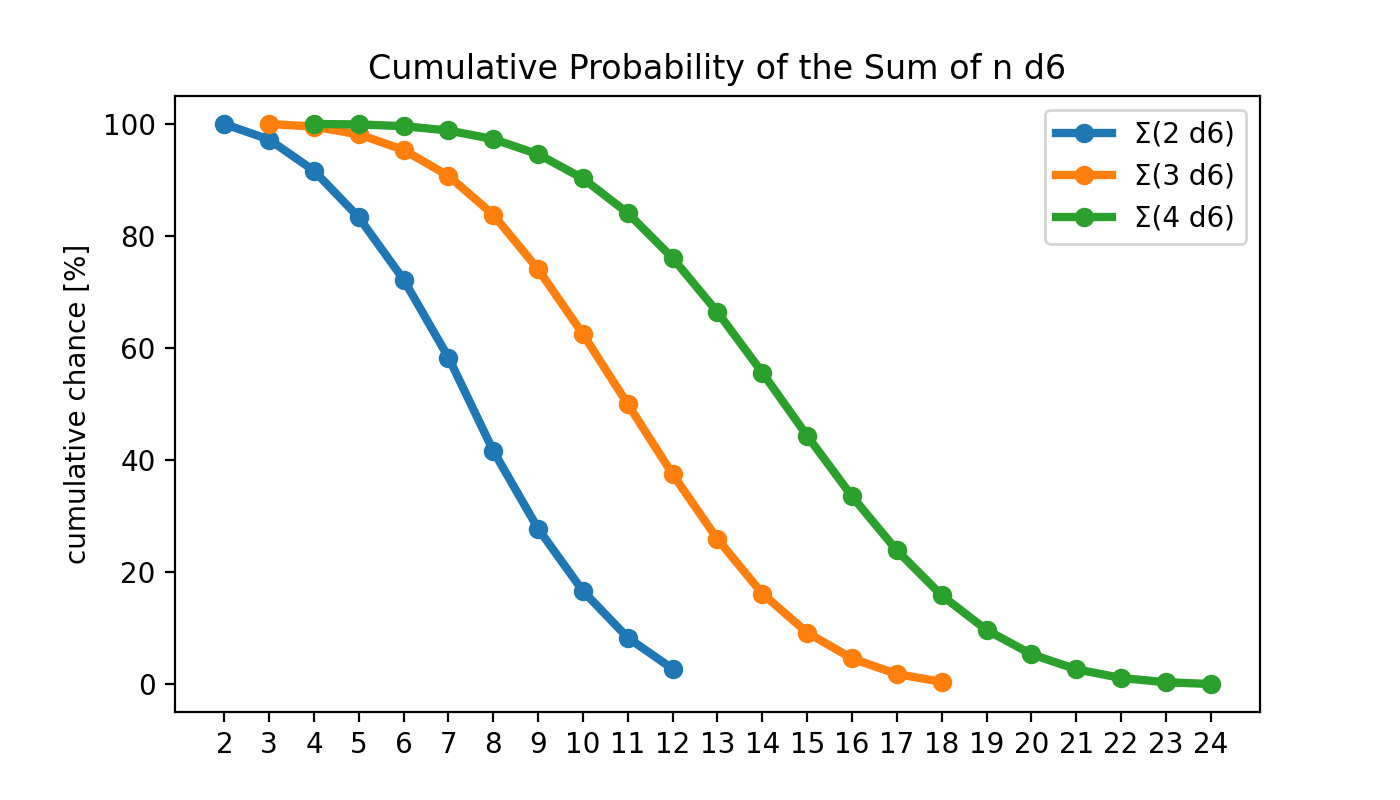
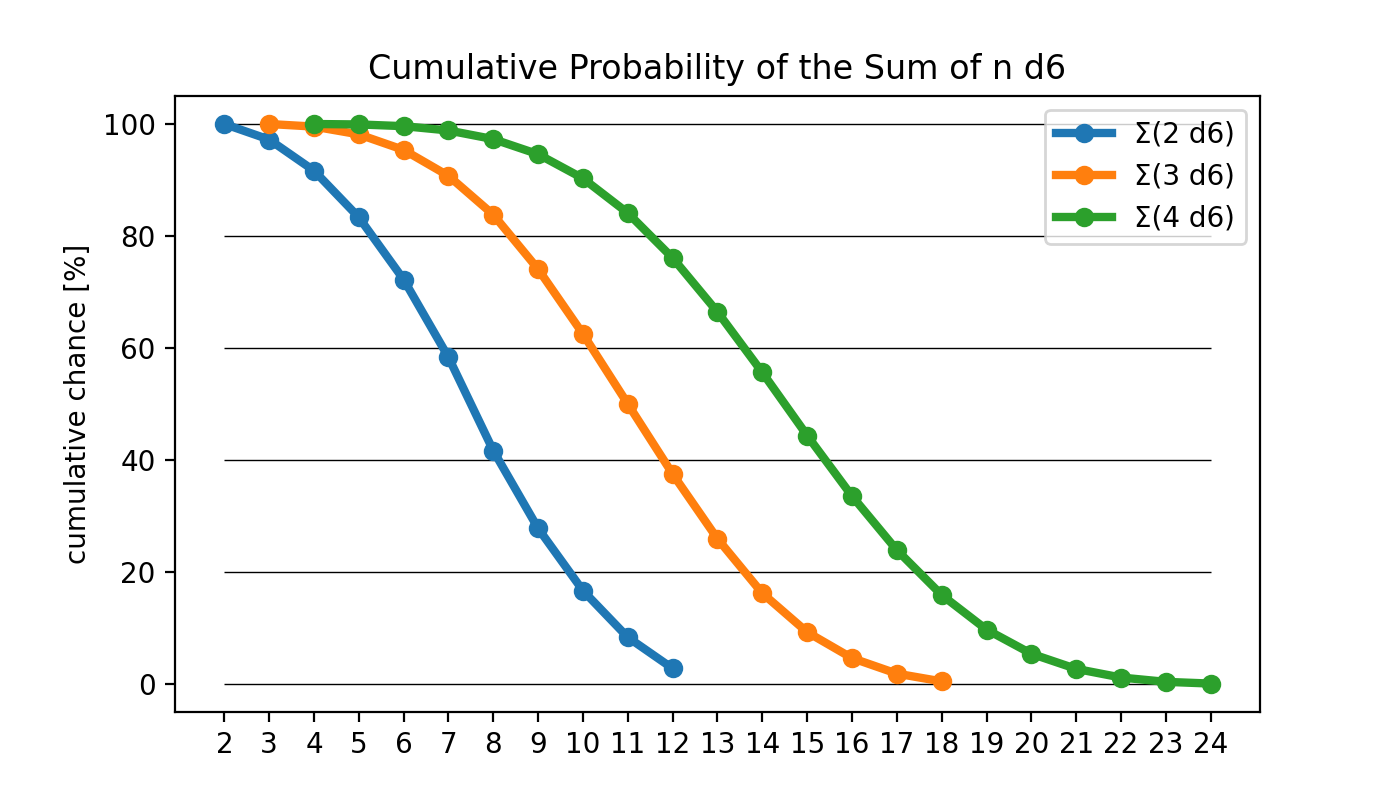
Added further charts

diff --git a/dice.py b/dice.py
@@ -1,7 +1,8 @@
+import statistics
 from collections import Counter
 from functools import reduce
 from itertools import combinations
-from typing import Dict, Set, List
+from typing import Dict, Set, List, Callable, Sequence
 
 import matplotlib.pyplot as plt
 import os
@@ -22,7 +23,9 @@ def chart(title, data: Dict[int, float], xlabel=None):
 def multi_chart(title, data: Dict[str, Dict[int, float]], bar=False, ylabel='chance [%]', xlabel=None):
     plt.figure(figsize=(7, 4))
     all_xvals = [key for series in data.values() for key in series.keys()]
-    plt.xticks(range(min(all_xvals), max(all_xvals) + 1))
+    xmin = min(all_xvals)
+    xmax = max(all_xvals)
+    plt.xticks(range(xmin, xmax + 1))
 
     if bar:
         width = 0.8 / len(data)
@@ -30,6 +33,9 @@ def multi_chart(title, data: Dict[str, Dict[int, float]], bar=False, ylabel='cha
             xvals = [key + (i + 0.5) * width - 0.4 for key in data[label].keys()]
             plt.bar(xvals, data[label].values(), label=label, width=width)
     else:
+        ymax = max(max(curve.values()) for curve in data.values())
+        for y in range(0, int(ymax) + 20, 20):
+            plt.hlines(y=y, xmin=xmin, xmax=xmax, linewidth=0.5, colors='black')
         for label in data:
             xvals = sorted(data[label])
             yvals = [data[label][key] for key in xvals]
@@ -49,7 +55,7 @@ def combine(n):
     return set(combinations(dice, n))
 
 
-def percentage(f, combos: Set[int]) -> Dict[int, float]:
+def probability_distribution(f: Callable[[Sequence[int]], int], combos: Set[Set[int]]) -> Dict[int, float]:
     val_cnt = Counter(map(f, combos))
     sigma = sum(val_cnt.values())
     return {key: val / sigma * 100.0 for key, val in val_cnt.items()}
@@ -93,6 +99,13 @@ def hits(threshold: int):
     return lambda l: sum(1 if x >= threshold else 0 for x in l)
 
 
+def hit(threshold: int, combo: set[int]) -> int:
+    for die in combo:
+        if die >= threshold:
+            return 1
+    return 0
+
+
 def explosive_die(threshold: int, computational_depth: int):
     sequences = combine(computational_depth)
 
@@ -105,42 +118,55 @@ def explosive_die(threshold: int, computational_depth: int):
                 break
         return i
 
-    return percentage(explode, sequences)
+    return probability_distribution(explode, sequences)
 
 
-chart('Probability of 1 d6', percentage(sum, combine(1)), xlabel='Σ(1 d6)')
-chart('Probability of the Sum of 2 d6', percentage(sum, combine(2)), xlabel='Σ(2 d6)')
-chart('Probability of the Sum of 3 d6', percentage(sum, combine(3)), xlabel='Σ(3 d6)')
-chart('Probability of the Sum of 4 d6', percentage(sum, combine(4)), xlabel='Σ(4 d6)')
+combos = {n: combine(n) for n in range(1, 7)}
+
+multi_chart('Probability to Score at Least 1 Hit', {
+    f'{threshold}+': {n: sum(hit(threshold, combo) for combo in combos[n]) / len(combos[n]) * 100.0 for n in
+                      range(1, 7)} for
+    threshold in range(2, 7)}, xlabel='number of dice rolled')
+
+chart('Probability of 1 d6', probability_distribution(sum, combine(1)), xlabel='Σ(1 d6)')
+chart('Probability of the Sum of 2 d6', probability_distribution(sum, combine(2)), xlabel='Σ(2 d6)')
+chart('Probability of the Sum of 3 d6', probability_distribution(sum, combine(3)), xlabel='Σ(3 d6)')
+chart('Probability of the Sum of 4 d6', probability_distribution(sum, combine(4)), xlabel='Σ(4 d6)')
 
 multi_chart('Cumulative Probability of the Sum of n d6',
-            {f'Σ({i} d6)': cumulative(percentage(sum, combine(i))) for i in range(2, 5)},
+            {f'Σ({i} d6)': cumulative(probability_distribution(sum, combine(i))) for i in range(2, 5)},
             ylabel='cumulative chance [%]')
 
-multi_chart('Probability of the Maximum of n d6', {f'max({i} d6)': percentage(max, combine(i)) for i in range(2, 5)},
+multi_chart('Probability of the Maximum of n d6',
+            {f'max({i} d6)': probability_distribution(max, combine(i)) for i in range(2, 5)},
             bar=True)
 
 multi_chart('Probability of the Minimum of 2 d6', {
-    'min(2 d6)': percentage(min, combine(2)),
-    'min(2 d6 w/o  doubles)': percentage(min, {x for x in combine(2) if list(x)[0] != list(x)[1]})
+    'min(2 d6)': probability_distribution(min, combine(2)),
+    'min(2 d6 w/o  doubles)': probability_distribution(min, {x for x in combine(2) if list(x)[0] != list(x)[1]})
 }, bar=True)
 
-chart('Probability of the Difference between 2 d6', percentage(delta, combine(2)), xlabel='Δ(2 d6)')
-chart('Π(2 d6)', percentage(lambda l: l[0] * l[1], combine(2)))
+chart('Probability of the Difference between 2 d6', probability_distribution(delta, combine(2)), xlabel='Δ(2 d6)')
+chart('Π(2 d6)', probability_distribution(lambda l: l[0] * l[1], combine(2)))
+
+multi_chart('Probability of the Median of n d6',
+            {f'{n} d6': probability_distribution(statistics.median, combine(n)) for n in (3, 5, 7)}, xlabel='median',
+            bar=True)
 
 for i in range(1, 7):
     multi_chart(f'Probability of Hits with {i} d6',
                 {f'{threshold}+, μ = {round(expected_value(percentage), 1)}': percentage for threshold, percentage in
-                 [(k, percentage(hits(k), combine(i))) for k in range(2, 7)]}, xlabel='hits')
+                 [(k, probability_distribution(hits(k), combine(i))) for k in range(2, 7)]}, xlabel='hits')
 
     multi_chart(f'Cumulative Probability of Hits with {i} d6',
-                {f'{threshold}+': cumulative(percentage(hits(threshold), combine(i))) for threshold in range(2, 7)},
+                {f'{threshold}+': cumulative(probability_distribution(hits(threshold), combine(i))) for threshold in
+                 range(2, 7)},
                 ylabel='cumulative chance [%]', xlabel='hits')
 
-    for threshold in range(2, 7):
-        c5d6e = explosive_die(threshold, 7)
+for threshold in range(2, 7):
+    c5d6e = explosive_die(threshold, 7)
     for i in range(1, 7):
-        p1 = percentage(hits(threshold), combine(i))
+        p1 = probability_distribution(hits(threshold), combine(i))
     mu1 = round(expected_value(p1), 1)
     p2 = combine_percentages([c5d6e] * i)
     mu2 = round(expected_value(p2), 1)
@@ -151,4 +177,8 @@ for i in range(1, 7):
 for i in range(2, 7):
     multi_chart(f'Probability of Hits with n d6 ({i}+)',
                 {f'{n} d6, μ = {round(expected_value(percentage), 1)}': percentage for n, percentage in
-                 [(n, percentage(hits(i), combine(n))) for n in range(1, 7)]}, xlabel='hits')
+                 [(n, probability_distribution(hits(i), combine(n))) for n in range(1, 7)]}, xlabel='hits')
+
+    multi_chart(f'Cumulative Probability of Hits with n d6 ({i}+)',
+                {f'{n} d6': cumulative(probability_distribution(hits(i), combine(n))) for n in range(1, 7)},
+                ylabel='cumulative chance [%]', xlabel='hits')
